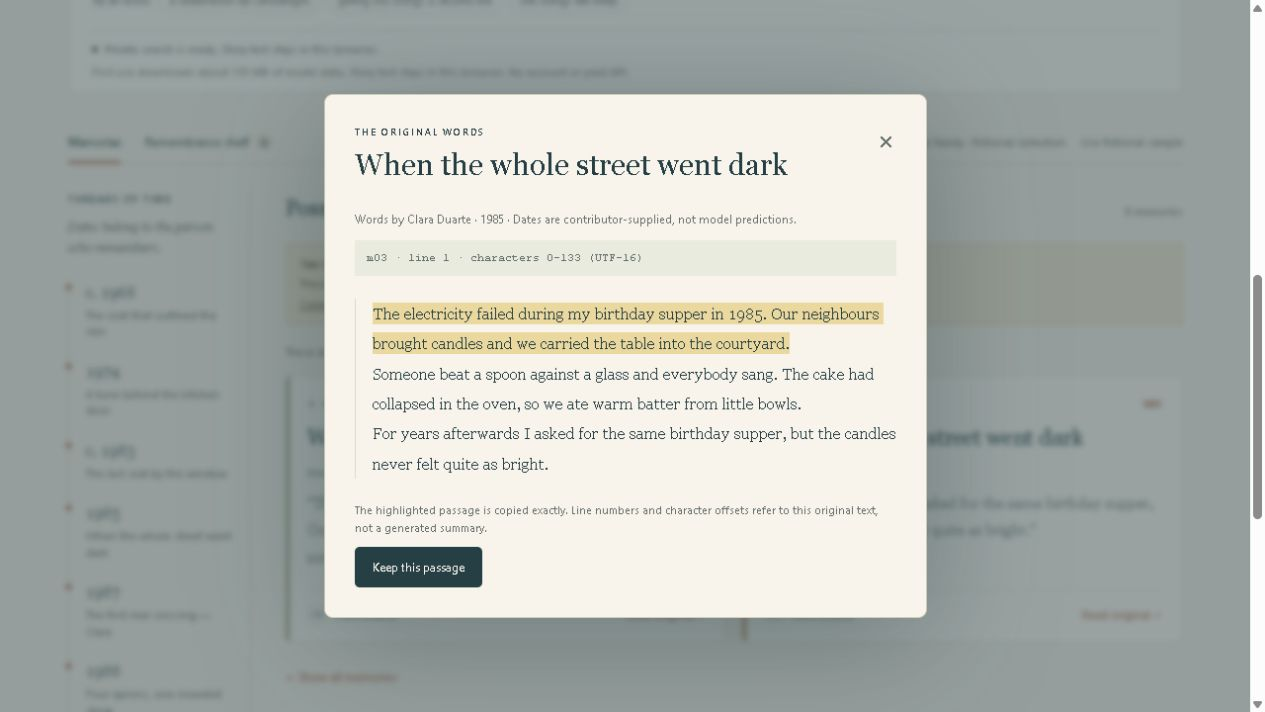
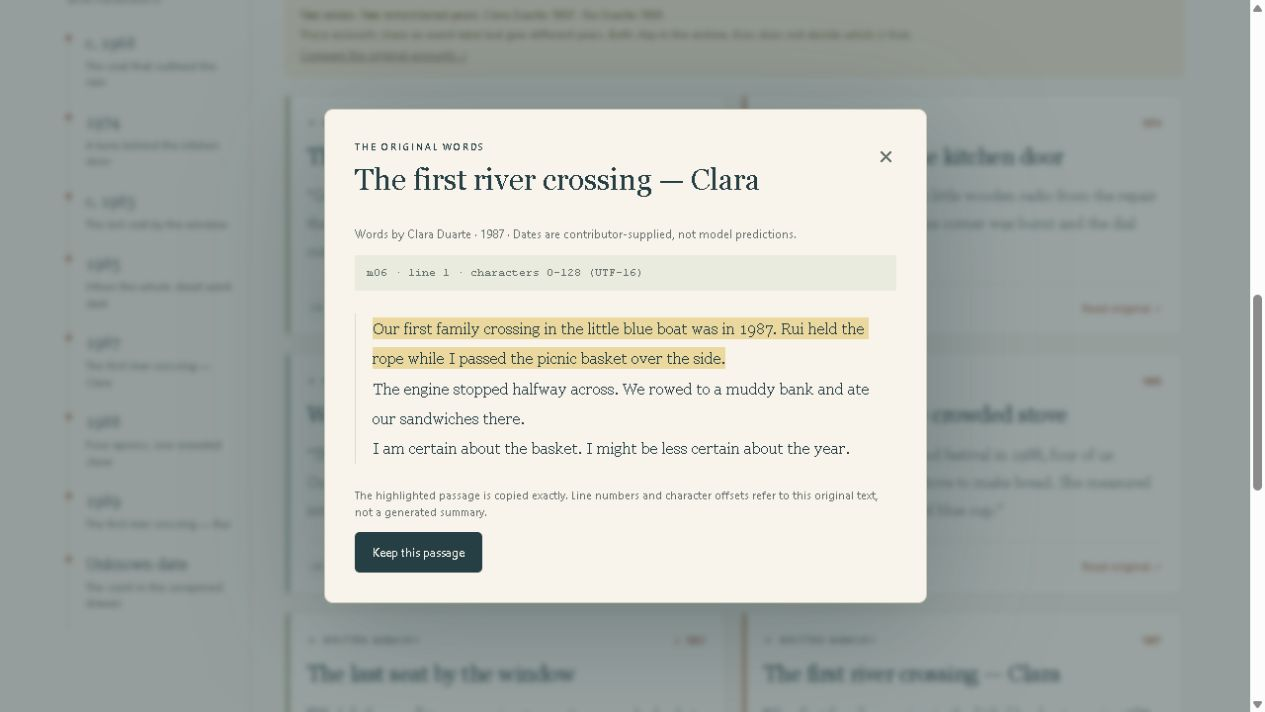
Record browser checks and preserve full-size Unicode archives

diff --git a/VERIFICATION.md b/VERIFICATION.md
@@ -11,7 +11,17 @@ The complete actual model experiment is in `evidence/retrieval-evaluation.json`.
 - Actual local browser WASM model load succeeded with the pinned q8 model.
 - “A celebration without electric lights” retrieved original passages from the fictional birthday power-cut memory, including line 1, UTF-16 characters 0–133.
 - “Remembering grandma through the smell of her apron” retrieved the original undated letter as the first passage; it remained explicitly undated.
-- Further browser checks and publication receipts are recorded below when actually completed.
+- Original-passage dialog showed exact source range 0–133 on physical line 1. Pinning preserved that passage and its narrator on the shelf.
+- The keepsake/archive download controls were exercised. Their generated files were not available in the executor's Downloads directory, so no on-disk browser-download integrity claim is made.
+- Explicit local saving and a page reload restored all eight fictional stories and the pinned passage.
+- Portuguese interface and a 390px-wide embedded viewport were visually checked at the hero and search/collection controls. This is a layout check, not a real-device compatibility test.
+- Actual screenshot evidence is in `evidence/ecos-home.png`, `evidence/ecos-search.png` and `evidence/ecos-source.png`.
+
+## Publication
+
+Public repository was created at https://github.com/Brunof94-debug/ecos-week4 . Pages is configured for GitHub Actions. Code upload is awaiting renewal of the user's existing GitHub sign-in; the demo URL is not yet verified live.
+
+A complete unpublished draft was saved under DEV account `brunof94_debug`, article ID `7718487`, with the challenge tags and an accurate Fully Autonomous disclosure. The contest entry has **not** been published or submitted. Action-time acceptance of the new Week 4 contest rules is still required immediately before publication.
 
 ## Limitations
 

diff --git a/README.md b/README.md
@@ -47,7 +47,7 @@ Node CPU evaluation and browser WASM verification are separate. See [VERIFICATIO
 
 ## Scope
 
-Up to 40 written memories, 8,000 characters per story, 600 KB per imported JSON archive. Local JSON import/export; no audio recording, transcription, photo recognition, PDF/Office extraction, cloud sync, encryption, genealogy verification, generated biographies or automatic relationship inference. Device/browser resources can prevent loading; the original stories remain usable without search.
+Up to 40 written memories, 8,000 characters per story, 80 shelf passages and 1.5 MB per imported JSON archive. Local JSON import/export; no audio recording, transcription, photo recognition, PDF/Office extraction, cloud sync, encryption, genealogy verification, generated biographies or automatic relationship inference. Device/browser resources can prevent loading; the original stories remain usable without search.
 
 ## Develop and reproduce
 
